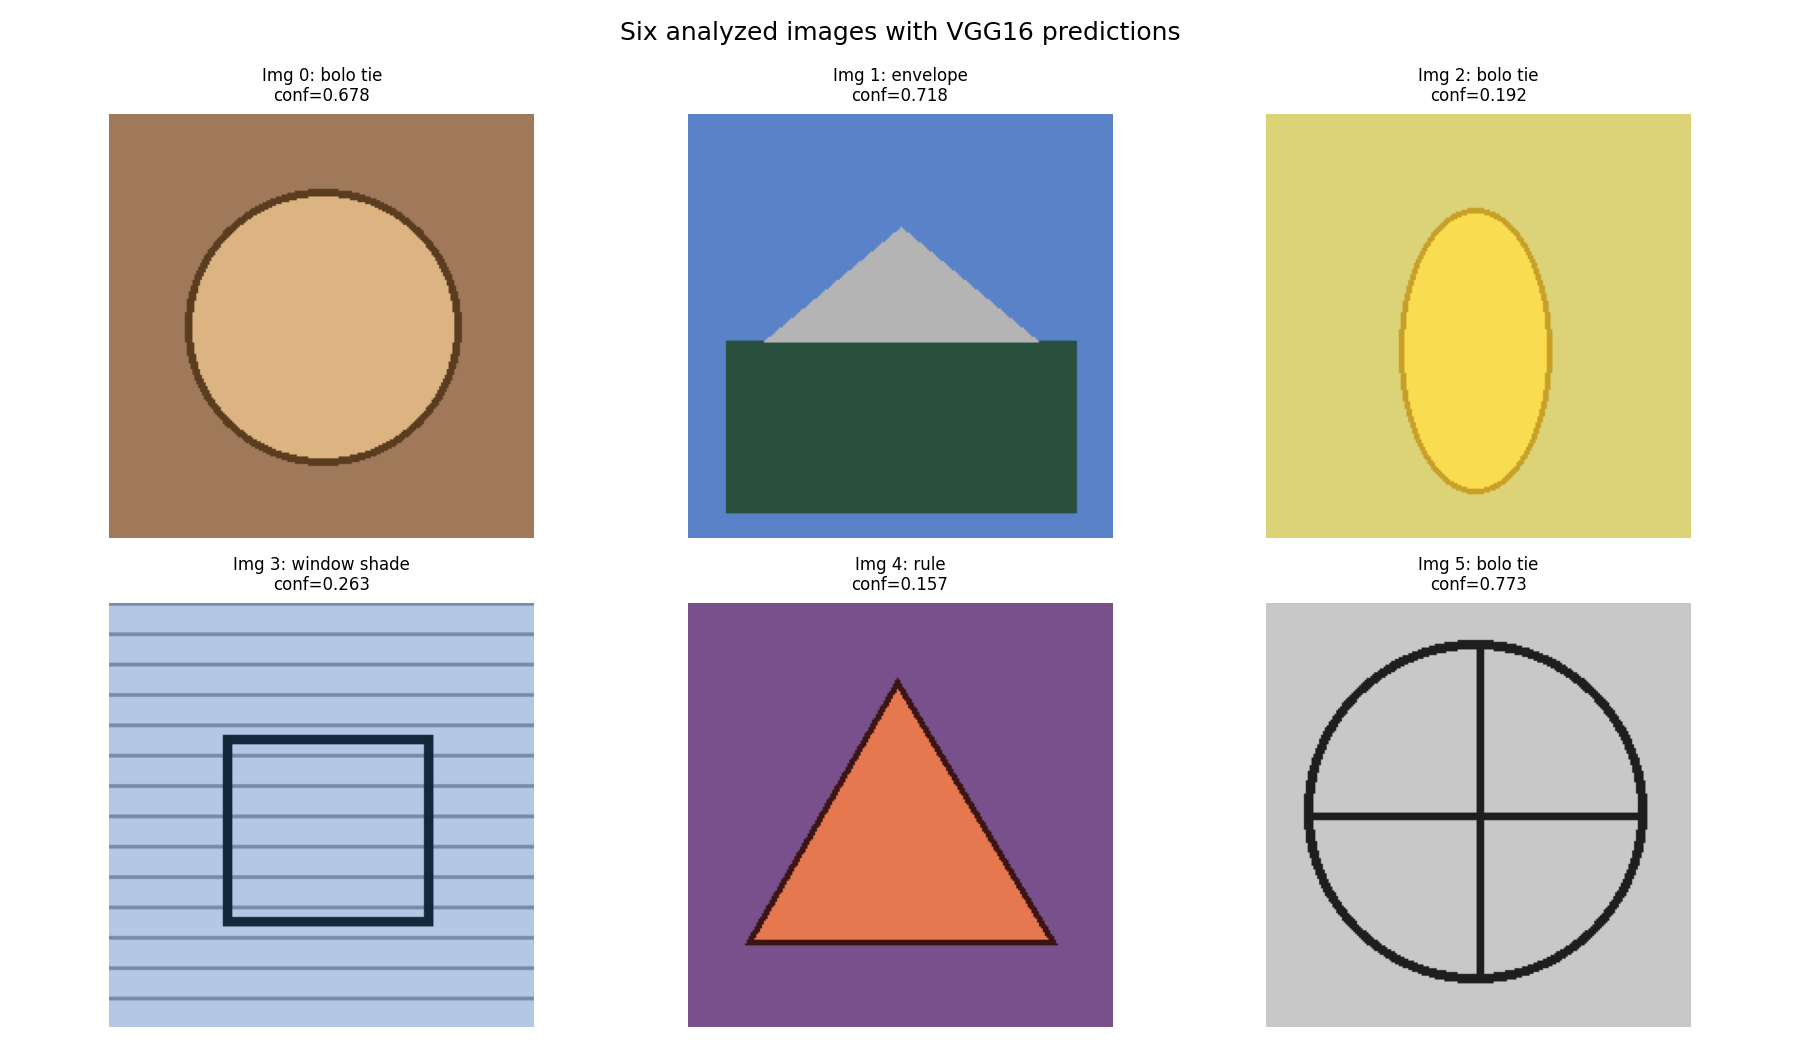
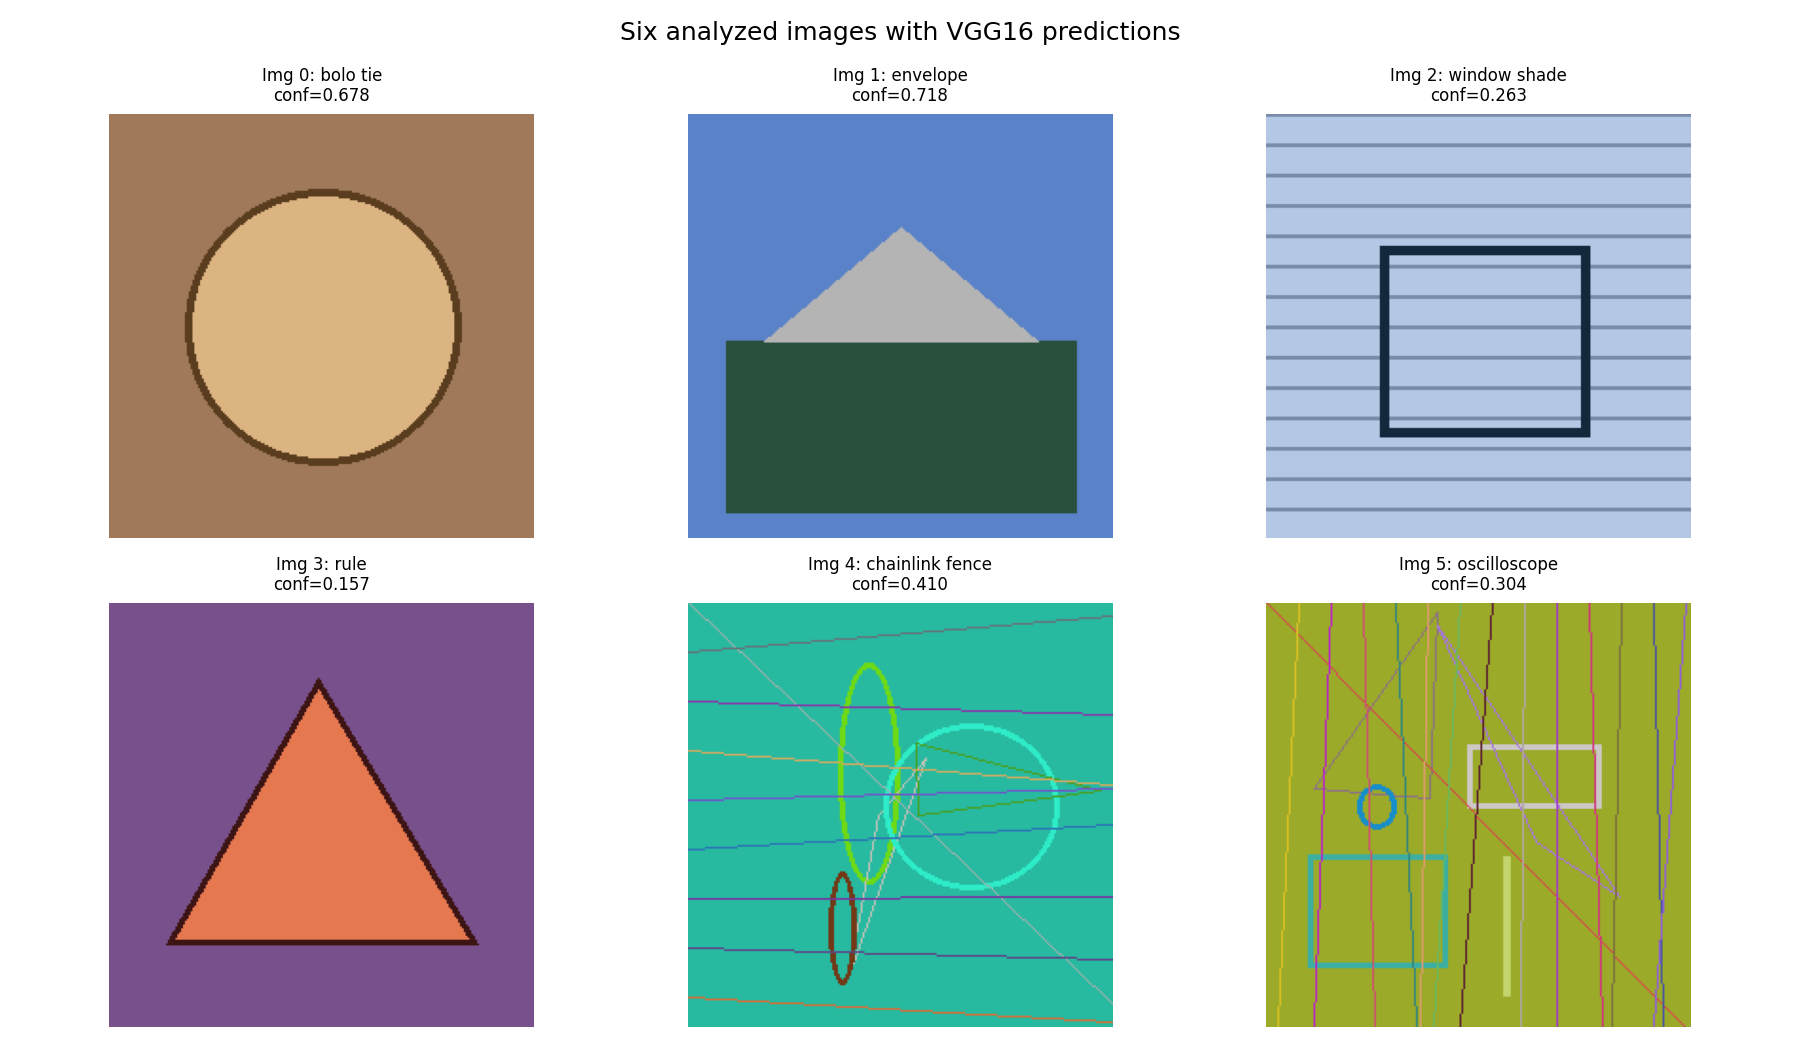
feat(report): enhance HW2 report with new visualizations and metrics; add candidate image generation, update predictions, and include new figures for clarity

diff --git a/HomeWorks/HW2/code/generate_report_plots.py b/HomeWorks/HW2/code/generate_report_plots.py
@@ -796,17 +796,70 @@ def _build_demo_images() -> list[Image.Image]:
     return imgs
 
 
-def _plot_vgg16_image_set(model: torch.nn.Module, categories: list[str]) -> tuple[list[dict[str, float | str]], Image.Image]:
-    imgs = _build_demo_images()
-    rows: list[dict[str, float | str]] = []
+def _make_candidate_image(rng: np.random.Generator, idx: int) -> Image.Image:
+    base = tuple(int(c) for c in rng.integers(20, 235, size=3))
+    img = Image.new("RGB", (224, 224), color=base)
+    draw = ImageDraw.Draw(img)
 
-    fig, axes = plt.subplots(2, 3, figsize=(12, 7))
-    for i, (img, ax) in enumerate(zip(imgs, axes.ravel())):
+    # Blend geometric primitives and texture so VGG receives varied structures.
+    for _ in range(5 + (idx % 4)):
+        shape_type = int(rng.integers(0, 3))
+        color = tuple(int(c) for c in rng.integers(0, 255, size=3))
+        x1, y1 = [int(v) for v in rng.integers(0, 160, size=2)]
+        x2, y2 = [int(v) for v in rng.integers(64, 224, size=2)]
+        if shape_type == 0:
+            draw.rectangle((min(x1, x2), min(y1, y2), max(x1, x2), max(y1, y2)), outline=color, width=3)
+        elif shape_type == 1:
+            draw.ellipse((min(x1, x2), min(y1, y2), max(x1, x2), max(y1, y2)), outline=color, width=3)
+        else:
+            xm, ym = int(rng.integers(0, 224)), int(rng.integers(0, 224))
+            draw.polygon([(x1, y1), (x2, y2), (xm, ym)], outline=color)
+
+    for k in range(0, 224, int(rng.integers(10, 28))):
+        line_color = tuple(int(c) for c in rng.integers(30, 220, size=3))
+        if idx % 2 == 0:
+            draw.line((0, k, 223, (k + int(rng.integers(-20, 20))) % 224), fill=line_color, width=1)
+        else:
+            draw.line((k, 0, (k + int(rng.integers(-20, 20))) % 224, 223), fill=line_color, width=1)
+    return img
+
+
+def _plot_vgg16_image_set(model: torch.nn.Module, categories: list[str]) -> tuple[list[dict[str, float | str]], Image.Image]:
+    seed_imgs = _build_demo_images()
+    rng = np.random.default_rng(SEED)
+    candidates = seed_imgs + [_make_candidate_image(rng, i) for i in range(30)]
+
+    selected_imgs: list[Image.Image] = []
+    rows: list[dict[str, float | str]] = []
+    used_classes: set[int] = set()
+    fallback_rows: list[tuple[Image.Image, dict[str, float | str]]] = []
+
+    for cand_idx, img in enumerate(candidates):
         inp = preprocess_image(img)
         idx, name, conf = _predict_top(model, inp, categories)
-        rows.append({"image_id": i, "pred_idx": idx, "pred_name": name, "confidence": conf})
+        row = {"image_id": cand_idx, "pred_idx": idx, "pred_name": name, "confidence": conf}
+        if idx not in used_classes and len(selected_imgs) < 6:
+            used_classes.add(idx)
+            selected_imgs.append(img)
+            rows.append(row)
+        else:
+            fallback_rows.append((img, row))
+        if len(selected_imgs) == 6:
+            break
+
+    # If unique-class selection is insufficient, fill deterministically by confidence.
+    if len(selected_imgs) < 6:
+        fallback_rows.sort(key=lambda item: float(item[1]["confidence"]), reverse=True)
+        for img, row in fallback_rows:
+            selected_imgs.append(img)
+            rows.append(row)
+            if len(selected_imgs) == 6:
+                break
+
+    fig, axes = plt.subplots(2, 3, figsize=(12, 7))
+    for i, (img, row, ax) in enumerate(zip(selected_imgs, rows, axes.ravel())):
         ax.imshow(img)
-        ax.set_title(f"Img {i}: {name}\nconf={conf:.3f}", fontsize=8)
+        ax.set_title(f"Img {i}: {row['pred_name']}\nconf={float(row['confidence']):.3f}", fontsize=8)
         ax.axis("off")
     fig.suptitle("Six analyzed images with VGG16 predictions")
     fig.tight_layout()
@@ -814,7 +867,7 @@ def _plot_vgg16_image_set(model: torch.nn.Module, categories: list[str]) -> tupl
     fig.savefig(out, dpi=150)
     plt.close(fig)
     print(f"[vision] saved {out}")
-    return rows, imgs[0]
+    return rows, selected_imgs[0]
 
 
 def _plot_adversarial_comparison(
